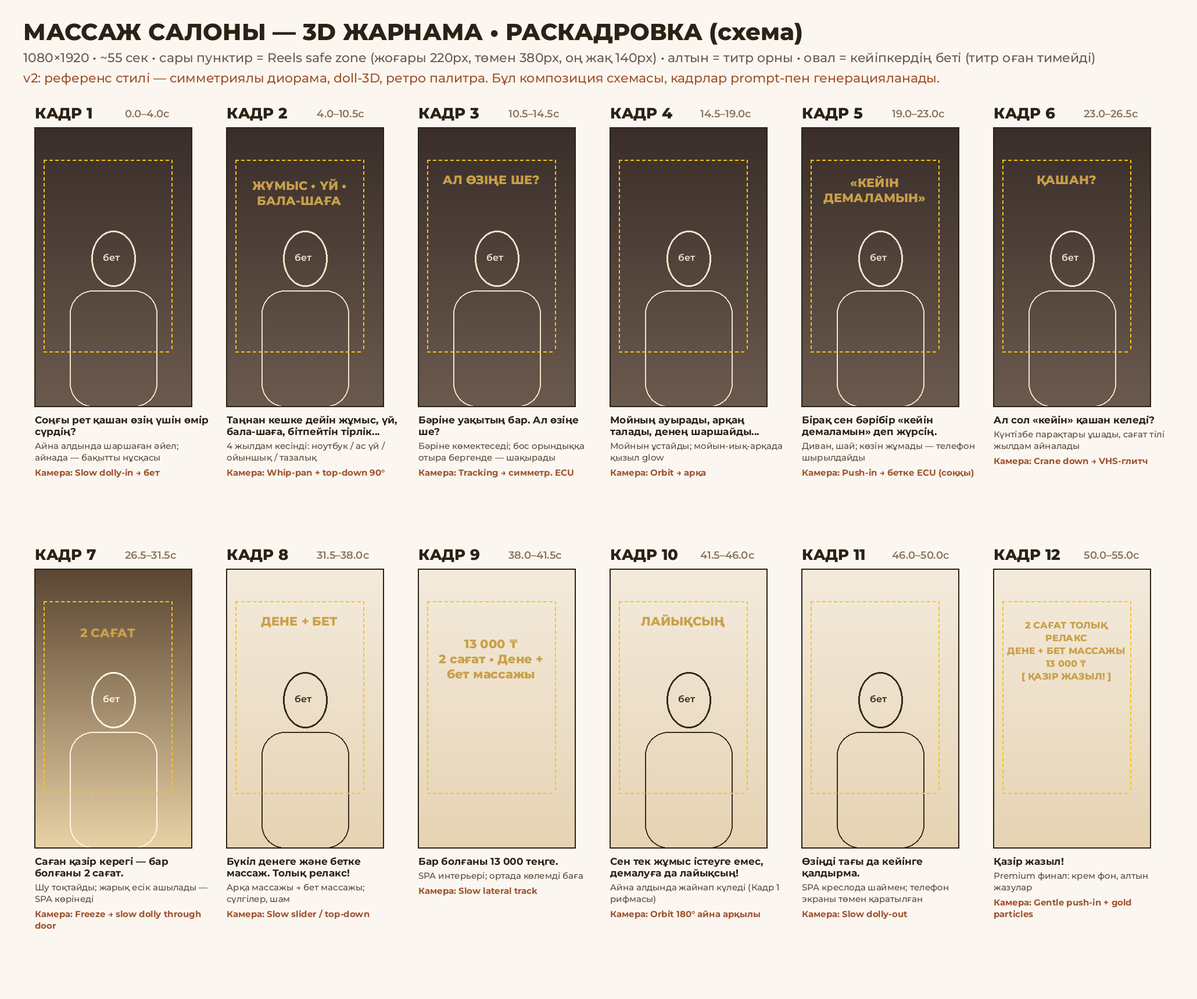
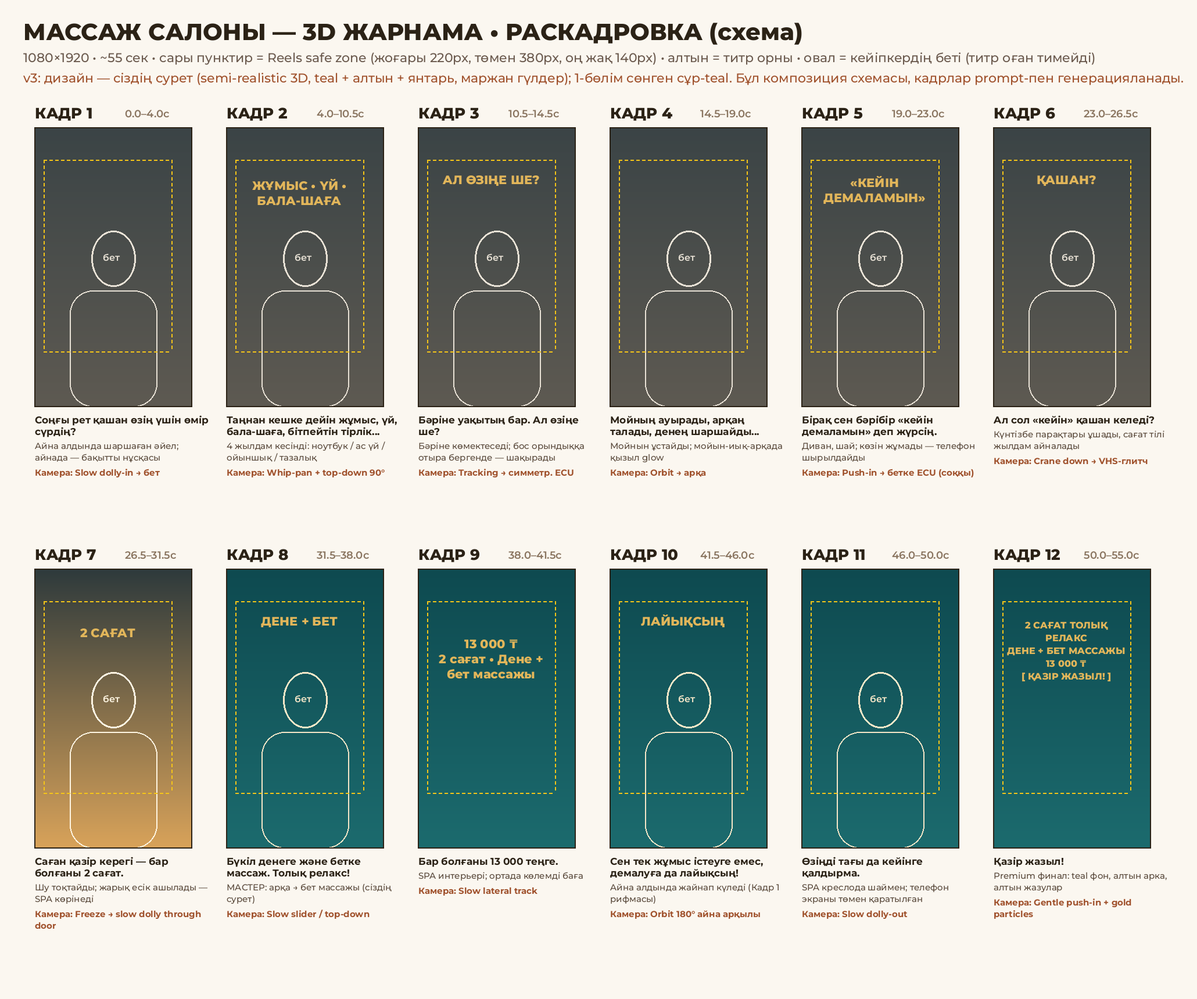
Массаж 3D v3: дизайн пайдаланушы суретіне ауыстырылды, массажист кейіпкері қосылды
Claude-Session: https://claude.ai/code/session_017A9pfsDQe6xzvqqRhjSeg5

diff --git a/Раскадровка/massage-3d/board.py b/Раскадровка/massage-3d/board.py
@@ -22,17 +22,17 @@ SHOTS = [
  ("19.0–23.0", "Бірақ сен бәрібір «кейін демаламын» деп жүрсің.", "Диван, шай; көзін жұмады — телефон шырылдайды", "Push-in → бетке ECU (соққы)", "«КЕЙІН ДЕМАЛАМЫН»", 0.17, "dark"),
  ("23.0–26.5", "Ал сол «кейін» қашан келеді?", "Күнтізбе парақтары ұшады, сағат тілі жылдам айналады", "Crane down → VHS-глитч", "ҚАШАН?", 0.16, "dark"),
  ("26.5–31.5", "Саған қазір керегі — бар болғаны 2 сағат.", "Шу тоқтайды; жарық есік ашылады — SPA көрінеді", "Freeze → slow dolly through door", "2 САҒАТ", 0.20, "turn"),
- ("31.5–38.0", "Бүкіл денеге және бетке массаж. Толық релакс!", "Арқа массажы → бет массажы; сүлгілер, шам", "Slow slider / top-down", "ДЕНЕ + БЕТ", 0.16, "light"),
+ ("31.5–38.0", "Бүкіл денеге және бетке массаж. Толық релакс!", "МАСТЕР: арқа → бет массажы (сіздің сурет)", "Slow slider / top-down", "ДЕНЕ + БЕТ", 0.16, "light"),
  ("38.0–41.5", "Бар болғаны 13 000 теңге.", "SPA интерьері; ортада көлемді баға", "Slow lateral track", "13 000 ₸\n2 сағат • Дене + бет массажы", 0.40, "light"),
  ("41.5–46.0", "Сен тек жұмыс істеуге емес, демалуға да лайықсың!", "Айна алдында жайнап күледі (Кадр 1 рифмасы)", "Orbit 180° айна арқылы", "ЛАЙЫҚСЫҢ", 0.16, "light"),
  ("46.0–50.0", "Өзіңді тағы да кейінге қалдырма.", "SPA креслода шаймен; телефон экраны төмен қаратылған", "Slow dolly-out", "—", None, "light"),
- ("50.0–55.0", "Қазір жазыл!", "Premium финал: крем фон, алтын жазулар", "Gentle push-in + gold particles", "2 САҒАТ ТОЛЫҚ РЕЛАКС\nДЕНЕ + БЕТ МАССАЖЫ\n13 000 ₸\n[ ҚАЗІР ЖАЗЫЛ! ]", 0.30, "light"),
+ ("50.0–55.0", "Қазір жазыл!", "Premium финал: teal фон, алтын арка, алтын жазулар", "Gentle push-in + gold particles", "2 САҒАТ ТОЛЫҚ РЕЛАКС\nДЕНЕ + БЕТ МАССАЖЫ\n13 000 ₸\n[ ҚАЗІР ЖАЗЫЛ! ]", 0.30, "light"),
 ]
 
-PAL = {"dark": ("#3A2E2A", "#6B5A4E", "#F2E3C9"),
-       "turn": ("#5A4632", "#E9D2A6", "#FFF6E3"),
-       "light": ("#F4EBDD", "#E6D3B3", "#3A2B1E")}
-GOLD = "#C9A04A"
+PAL = {"dark": ("#3B4446", "#5E5A52", "#E9E2D6"),
+       "turn": ("#2E3A3C", "#D9A35A", "#FFF6E3"),
+       "light": ("#0E4A50", "#1C6B6E", "#F6E7C8")}
+GOLD = "#E2B65A"
 
 FW, FH = 270, 480           # 9:16 кадр (1080×1920 / 4)
 CW, CH = 330, 760
@@ -45,7 +45,7 @@ d = ImageDraw.Draw(img)
 d.text((M, 30), "МАССАЖ САЛОНЫ — 3D ЖАРНАМА • РАСКАДРОВКА (схема)", font=font(MONT, 40, 800), fill="#2B2216")
 d.text((M, 85), "1080×1920 • ~55 сек • сары пунктир = Reels safe zone (жоғары 220px, төмен 380px, оң жақ 140px) • алтын = титр орны • овал = кейіпкердің беті (титр оған тимейді)",
        font=font(MONT, 22, 500), fill="#6B5A4E")
-d.text((M, 120), "v2: референс стилі — симметриялы диорама, doll-3D, ретро палитра. Бұл композиция схемасы, кадрлар prompt-пен генерацияланады.",
+d.text((M, 120), "v3: дизайн — сіздің сурет (semi-realistic 3D, teal + алтын + янтарь, маржан гүлдер); 1-бөлім сөнген сұр-teal. Бұл композиция схемасы, кадрлар prompt-пен генерацияланады.",
        font=font(MONT, 22, 500), fill="#A0522D")
 
 def wrap(text, f, w):

diff --git a/Раскадровка/massage-3d/раскадровка.md b/Раскадровка/massage-3d/раскадровка.md
@@ -1,56 +1,67 @@
 # Массаж салоны — 3D анимациялық жарнама (Reels 9:16)
 
-**Мәртебе:** раскадровка + prompt-тар дайын, референс талданды (v2). Видео әлі жасалған жоқ.
+**Мәртебе:** v3 — дизайн сіз жіберген суретке (`dizain-ref.png`) ауыстырылды, массажист кейіпкері қосылды. Видео әлі жасалған жоқ.
 
 ---
 
-## 0. Референс талдауы (69 сек, 720×1280)
+## 0. Стиль көздері
 
-**Не алмаймыз:** оқиғаны («Айта берсін»), кейіпкерлерді, киімдерді, жазуларды, логотипті.
-**Не аламыз — стилистика:**
+**A. Негізгі дизайн — `dizain-ref.png` (сіз жіберген сурет).** Бүкіл роликтің визуалы осыған сүйенеді:
 
-| Параметр | Референсте | Біздің роликте |
-|---|---|---|
-| Рендер | Stylized 3D «designer doll / claymation» эстетикасы: матовая, сәл пластилин тәрізді тері, ұзын жіңішке мойын, кішкентай сопақ бет, үлкен бас, ұзын аяқ, жіңішке қол. Ұсақ егжей-тегжей: тоқыма, барқыт, ою-өрнек | Дәл осы рендер стилі, бірақ өз кейіпкеріміз |
-| Әлем | **Диорама / қуыршақ үйі** сезімі: миниатюра декорация, бәрі симметриялы, tilt-shift тәрізді, Уэс Андерсон композициясы | 1-бөлім — үй/кеңсе диорамасы, 2-бөлім — SPA диорамасы |
-| Палитра | Қаныққан ретро: teal-көк, қыша-сары, қызыл-сарғыш, кобальт көк, жасыл барқыт; жылы vintage grade, film grain | 1-бөлім: **сөнген** нұсқасы (сұр-teal, тозған қыша, қоңыр) • 2-бөлім: крем/беж/алтын + жұмсақ шабдалы, бірақ сол ретро-grain |
-| Композиция | Фронталды, ортада, симметрия; кейіпкер кадрдың тік ортасында | Сол ереже — сонымен бет титрден төмен тұрады |
-| Камера | Негізінен статикалық жалпы план + баяу push-in; кенет **бетке экстремалды close-up** (симметриялы, deadpan); бір рет **top-down** план 90° бұрылған | Әр кадрда қозғалыс (сіздің талап), бірақ «жалпы план → бетке close-up» соққысы сақталады (Кадр 1, 3, 5) |
-| Мимика | Сатиралық, үлкейтілген: қас көтеру, көз айналдыру, ерін бұрту; ұсақ басты қимыл | Эмоция — шаршау, мұң, жеңілдеу, күлкі; анық әрі сәл үлкейтілген |
-| Монтаж ырғағы | ~7 сек блоктар (7.1 / 14.1 / 21.1 / 28 / 33.7 / 46 / 50.5 с): жалпы план → диалог → close-up соққы. Ауысулар: hard cut, **VHS-глитч + қара экран** (≈37 с), кадрды 90° айналдыру, соңында қара фонда хром логотип | 1-бөлім жылдамырақ (1.5–4 с), Кадр 6→7 — **VHS-глитч + 0.5 с қара** (шу тоқтайды), 2-бөлім баяу cross-dissolve |
-| Жазу | Ақ, қалың, қолжазба-маркер капс, ортадан сәл төмен, денеге түседі, жұмсақ көлеңке; жоғарғы оң бұрышта су белгі | Титр қысқа, **беттен жоғары**; негізгі сөздер — алтын serif, субтитр — ақ маркер-стиль (референстегідей сезім) |
-| Дыбыс | Музыка-драйв, –14 LUFS | Дауыс –14 LUFS, музыка –20 dB-ге дейін басылады |
+| Параметр | Шешім |
+|---|---|
+| Рендер | Premium semi-realistic stylized 3D (Pixar/Disney commercial деңгейі): табиғи пропорциялар, жұмсақ subsurface тері, нәзік сепкіл, мөлдір жылтыр бет, ұсақ детальдар (сүлгі түктері, алтын қақпақтар) |
+| SPA палитрасы | Терең **teal / изумруд** қабырғалар, **алтын** аркалар мен жиектер, **жылы янтарь** жарықталған ниша, **маржан-қызғылт** гүлдер (сакура/айва бұтақтары), **ақ** үлпілдек сүлгілер, алтын қақпақты янтарь флакондар, алтын фонарь |
+| Жарық | Жылы key light (фонарь/ниша), teal fill, бетте жұмсақ glow, background-та bokeh |
+| Камера | 85 мм сезімі, shallow DOF, алдыңғы планда фокустан тыс флакондар (тереңдік) |
+| 1-бөлім (Кадр 1–6) | Сол 3D стиль, бірақ teal **сұр-көкке**, алтын **тозған қоңырға** ауысады; жарық күңгірт, кешкі, desaturated. Түс палитрасы сақталады — тек «сөнген» |
+| Кадр 7 | Есіктен сол янтарь-алтын жарық — SPA палитрасы «қайта жанады» |
+
+**B. Референс видео — тек монтаж тәсілдері үшін:** симметриялы композиция, «жалпы план → бетке close-up соққы» (Кадр 1, 3, 5), top-down 90° план (Кадр 2d), Кадр 6→7 VHS-глитч + қара экран, ақ қалың маркер-субтитр. Оның doll/диорама рендері мен ретро палитрасы енді **қолданылмайды** — дизайн A бойынша.
 
 ---
 
-## 1. Character reference (кейіпкердің тұрақты келбеті)
+## 1. Character reference
 
-**Аты (ішкі):** АЙЫМ, 32 жас, қазақ әйел. Референс кейіпкерінен айырмасы: көздері **үлкен, жұмсақ** (cat-eye емес), сырғасы — кішкентай інжу (үлкен алтын сақина емес), мимикасы жылы.
+### 1.1 АЙЫМ — басты кейіпкер (клиент)
+Сіздің суреттегі клиентке негізделген: қазақ әйел, 30–35 жас.
 
-**Тұрақты белгілер (әр prompt-қа сөзбе-сөз қосылады — `[AIYM]` блогы):**
+**`[AIYM]` блогы (әр prompt-қа сөзбе-сөз):**
 ```
-[AIYM] a 32-year-old Kazakh woman, stylized 3D designer-doll character with a matte clay-like finish,
-elongated slender neck, small oval face, slightly oversized head, long slim limbs, long straight glossy jet-black hair falling below the shoulders with a soft middle part,
-large expressive almond-shaped dark-brown eyes with long lashes, soft high cheekbones, warm light-olive skin
-with subtle subsurface scattering, small refined nose, full natural rose lips, thin elegant eyebrows,
-small pearl stud earrings (always), soft natural makeup with thin brown liner, consistent face across all shots
+[AIYM] a 32-year-old Kazakh woman, premium semi-realistic stylized 3D animated character (Pixar-quality commercial),
+slim elegant figure, long straight glossy jet-black hair, large expressive almond-shaped dark-brown eyes with long lashes,
+softly arched dark eyebrows, round soft face with gentle high cheekbones, warm light-golden skin with subtle subsurface glow,
+small refined nose, full rosy-nude lips, small gold hoop earrings (always), consistent face across all shots
+```
+**Image reference:** `dizain-ref.png` ішіндегі клиенттің беті (crop) → барлық Айым кадрларына «character / face reference».
+
+**Киімдері:**
+- Үй/жұмыс (1–7): oversized soft grey knit cardigan over a white tee, beige trousers, hair in a messy low bun with loose strands.
+- SPA (8): white plush towel wrap, hair wrapped in a white terry towel band (суреттегідей).
+- Финал (10–11): soft white-cream robe with gold trim, hair down, glowing skin.
+
+### 1.2 МАСТЕР — массажист (сіздің суреттен, дәл сол келбет)
+**`[MASTER]` блогы:**
+```
+[MASTER] a Kazakh female massage therapist around 40, premium semi-realistic stylized 3D character, round soft face,
+warm light skin with light freckles, defined dark eyebrows, gentle almond eyes with thin black winged liner, calm kind focused expression,
+wearing a black-and-white monogram-pattern bandana headscarf tied at the back over a fitted white underscarf covering the neck,
+white zip-up medical tunic with a gold zipper pull, grey cuffs and thin grey piping lines, neat professional hands
+```
+**Image reference:** `dizain-ref.png` ішіндегі массажистің беті мен формасы (crop) — 8a, 8b, (қаласаңыз) 12-кадрда.
+Ескерту: егер массажистің **нақты фотосы** бөлек болса — жіберіңіз, бетті соған қарай нақтылаймын.
+
+### 1.3 Character sheet (бірінші генерация)
+```
+Character turnaround sheet, [AIYM], front, 3/4, profile, back + 4 expressions (exhausted, sad, peaceful eyes closed, radiant smile),
+neutral warm background, premium semi-realistic stylized 3D, even soft light --ar 16:9
+```
+```
+Character turnaround sheet, [MASTER], front, 3/4, profile, back + 3 expressions (focused, gentle smile, welcoming),
+neutral warm background, premium semi-realistic stylized 3D, even soft light --ar 16:9
 ```
 
-**Character sheet генерациясы (бірінші болып жасалады):**
-```
-Character turnaround sheet, [AIYM], front view, 3/4 view, side profile, back view, plus 4 facial expressions
-(exhausted, sad, peaceful with closed eyes, radiant smile), neutral beige studio background, even soft lighting,
-premium stylized 3D animation, high-end commercial render, ultra detailed, clean white background labels
---ar 16:9
-```
-Осыдан ең жақсы алдыңғы (front) және 3/4 нұсқасын таңдап, **барлық кадрларда image reference / character reference** ретінде береміз (Midjourney `--cref` + `--cw 100`, Kling/Hailuo «Subject reference», Flux Kontext т.б.).
-
-**Киім нұсқалары:**
-- **Үй/жұмыс (Кадр 1–7):** oversized soft grey knit cardigan over a white tee, beige linen trousers, hair in a slightly messy low bun with loose strands.
-- **SPA (Кадр 8):** white fluffy towel wrap, hair down spread on the table.
-- **Финал (Кадр 10–11):** cream silk robe with gold piping, hair down, glowing.
-
-**Негативтер (барлық суретке):** `no text, no watermark, no extra fingers, no distorted face, no photorealism, no anime, no cartoon flatness`
+**Негативтер:** `no text, no watermark, no extra fingers, no distorted hands, no doll proportions, no anime, no photorealistic photo`
 
 ---
 
@@ -79,10 +90,11 @@ Kazakh TTS-пен (Piper, әйел дауысы) уақыт өлшенді: **т
 
 ## 3. Кадрлар: image prompt + image-to-video prompt
 
-Әр image prompt-тың соңына қосылады (референс стилі):
-`stylized 3D designer-doll animation, miniature diorama set, symmetrical centered Wes Anderson composition, frontal camera, tactile clay and fabric textures, retro saturated palette, subtle film grain, warm vintage color grade, soft cinematic lighting, shallow depth of field, vertical 9:16 --ar 9:16`
-1-бөлімге қосу: `muted desaturated dusty teal and faded mustard tones, dim evening light`. 2-бөлімге: `cream, beige, soft peach and gold palette, airy high-key light`.
-Композиция ережесі: **бет кадрдың ортаңғы бөлігінде (жоғарыдан 40–55%)**, жоғарғы 25% титрге бос қалады.
+Әр image prompt-тың соңына қосылады (дизайн A):
+`premium semi-realistic stylized 3D animation, Pixar-quality commercial render, soft subsurface skin, cinematic 85mm, shallow depth of field, warm amber key light with teal ambient, detailed textures, vertical 9:16 --ar 9:16`
+1-бөлімге: `muted desaturated grey-teal and faded bronze tones, dim evening light, slightly tired atmosphere`.
+SPA бөліміне: `luxurious SPA interior with deep teal walls, gold arches and trims, glowing amber niche, coral-pink blossom branches in a glass vase, white plush rolled towels, amber bottles with gold pumps, golden lantern, soft bokeh`.
+Композиция: бет кадрдың ортаңғы бөлігінде (жоғарыдан 40–60%), жоғарғы 25% титрге бос.
 
 ### КАДР 1 — Айна (0.0–4.0)
 - **Image:** `[AIYM] in a grey knit cardigan with messy low bun, standing in front of an ornate bathroom mirror at night, tired eyes, slight dark circles, shoulders dropped; in the mirror reflection the same woman appears radiant, smiling, hair down, glowing skin, wearing elegant cream dress — the reflection is warmer and brighter than reality; dim warm tungsten light, muted desaturated browns, face in the center of the frame, empty space above the head`
@@ -115,39 +127,39 @@ Kazakh TTS-пен (Piper, әйел дауысы) уақыт өлшенді: **т
 - **I2V:** `Camera cranes down from above toward her while calendar pages swirl rapidly and clock hands spin fast; she remains completely still. Time-lapse feeling, motion blur on pages only.`
 
 ### КАДР 7 — 2 сағат / есік (26.5–31.5)
-- **Image:** `[AIYM] in a dark quiet hallway, everything frozen and silent, a tall door in front of her opens and bright warm golden light pours out; through the doorway a luxurious cream and gold massage spa is visible with candles and orchids; volumetric god rays and floating golden dust; her face lit by the light, wonder in her eyes`
+- **Image:** `[AIYM] in a dark quiet hallway, everything frozen and silent, a tall door in front of her opens and bright warm golden light pours out; through the doorway a luxurious teal-and-gold massage spa is visible with a glowing amber niche, coral blossoms and white towels; volumetric god rays and floating golden dust; her face lit by the light, wonder in her eyes`
 - **I2V:** `First second: everything is still and silent (floating pages freeze mid-air and fade). Then the door slowly opens, golden light spills over her face, she breathes in with soft relief. Camera slowly dollies forward past her shoulder toward the light.`
 - Титр «2 САҒАТ» — монтажда қосылады (генератор жазуды бұзады).
 
 ### КАДР 8 — Массаж (31.5–38.0) — 2 кесінді
-- **8a Image:** `Luxurious SPA room in cream, beige and gold tones, [AIYM] lying face-down on a massage table, white towel over her lower back, hair down over one shoulder; a professional female massage therapist in a beige uniform gently massaging her upper back with oil; candles, orchids, rolled towels, soft diffused light, serene`
-  **I2V:** `Very slow lateral slider move; therapist's hands glide smoothly along her shoulders; she exhales, face peaceful with closed eyes. Calm, slow, 50% speed feeling.`
-- **8b Image:** `Top-down view of [AIYM] lying face-up, hair in a white towel band, eyes closed, serene; therapist's hands performing a gentle facial massage on her cheeks; soft golden light, rose petals in a bowl`
-  **I2V:** `Slow top-down push-in; gentle circular hand movements on her cheeks; a slight blissful smile appears.`
+- **8a Image:** `[MASTER] standing beside a massage table giving a slow back massage with warm oil to [AIYM] lying face-down, white towel over her lower back, hair wrapped in a white towel band, face turned to camera with eyes closed and peaceful; [SPA style]`
+  **I2V:** `Very slow lateral slider move; the therapist's hands glide smoothly along her shoulders; she exhales deeply, a soft smile appears. Calm, 0.8× slow motion.`
+- **8b Image (сіздің суреттің композициясы):** `[MASTER] standing behind the head of the massage table, gently performing a facial and neck massage with both hands on the jaw of [AIYM] who lies face-up, hair in a white terry towel band, eyes closed, blissful smile, white towel over her chest; foreground out-of-focus amber bottles with gold pumps; [SPA style]`
+  **I2V:** `Slow push-in from medium to close; gentle circular hand movements along her jawline and cheeks; the therapist looks down with a calm kind expression; lantern light flickers softly.`
+  > `dizain-ref.png` суретін 8b-ге **тікелей бастапқы кадр** ретінде беруге болады (image-to-video) — ең сенімді жол.
 
 ### КАДР 9 — Баға (38.0–41.5)
-- **Image:** `Empty elegant SPA interior, cream walls, gold accents, a massage table with folded towels, candles, orchids, soft morning light, generous empty space in the center of the frame for a title, no people`
-- **I2V:** `Slow lateral tracking shot across the interior, candle flames flicker, gentle light shift. Calm.`
-- Титр монтажда: ортада **«13 000 ₸»** (көлемді алтын, 3D extrude), астында **«2 сағат • Дене + бет массажы»**.
+- **Image:** `Empty luxurious SPA room with deep teal walls, gold arches, glowing amber niche with rolled white towels and amber bottles, coral blossom branches, massage table with white towels, generous empty space in the upper-middle of the frame for a title, no people`
+- **I2V:** `Slow lateral tracking shot; lantern light and blossom petals drift gently. Calm.`
+- Титр: ортада **«13 000 ₸»** (көлемді алтын 3D-әріп), астында **«2 сағат • Дене + бет массажы»** (крем-ақ).
 
 ### КАДР 10 — Айна, жайнаған (41.5–46.0)
-- **Image:** `[AIYM] in a cream silk robe, hair down and glossy, glowing refreshed skin, standing in front of an elegant gold-framed mirror in a bright SPA dressing room, smiling at her reflection with confidence; bright warm light — visual rhyme of the first shot`
-- **I2V:** `Camera orbits 180° around her via the mirror, she tucks hair behind her ear and smiles warmly at herself. Soft, joyful.`
+- **Image:** `[AIYM] in a white-cream robe with gold trim, hair down and glossy, glowing refreshed skin, in front of a gold-framed arched mirror in the teal SPA, smiling at her reflection; warm amber light — visual rhyme of shot 1`
+- **I2V:** `Camera orbits 180° around her via the mirror; she tucks hair behind her ear and smiles warmly at herself.`
 
 ### КАДР 11 — Шай, тыныштық (46.0–50.0)
-- **Image:** `[AIYM] in cream robe sitting in a luxurious beige SPA lounge chair, holding a cup of herbal tea with both hands, happy calm face, her phone lying face-down on the side table, soft daylight, plants`
-- **I2V:** `Slow dolly-out revealing the beautiful lounge; she sips tea and gazes peacefully out of the window; the phone stays face-down. Very calm.`
+- **Image:** `[AIYM] in white-cream robe relaxing in a plush cream lounge chair in the teal-and-gold SPA lounge, holding a cup of herbal tea with both hands, happy calm face, her phone lying face-down on a small gold side table, coral blossoms behind`
+- **I2V:** `Slow dolly-out revealing the lounge; she sips tea and gazes peacefully; the phone stays face-down.`
 
 ### КАДР 12 — Финал (50.0–55.0)
-- **Image:** `Premium cream and beige background with soft bokeh of SPA candles and orchids, elegant gold accents, floating golden particles, empty center for typography`
-- **I2V:** `Gentle slow push-in, golden particles drift upward, candle bokeh shimmers.`
-- Титр монтажда (кезекпен шығады, 0.3 с аралықпен):
+- **Image:** `Deep teal background with soft bokeh of the SPA (amber niche glow, coral blossoms, golden lantern), elegant gold arch frame in the center, floating golden particles, empty center for typography`
+- **I2V:** `Gentle slow push-in, golden particles drift upward, bokeh shimmers.`
+- Титр (кезекпен, 0.3 с аралықпен), алтын + крем-ақ:
   1. **2 САҒАТ ТОЛЫҚ РЕЛАКС**
   2. **ДЕНЕ + БЕТ МАССАЖЫ**
   3. **13 000 ₸** (ең үлкені)
-  4. батырма **[ ҚАЗІР ЖАЗЫЛ! ]** — жұмсақ пульс
-
----
+  4. батырма **[ ҚАЗІР ЖАЗЫЛ! ]** — алтын, жұмсақ пульс
+- Ескерту: бастапқы брифте финал фоны «крем» болатын; жаңа дизайнға сай **teal + алтын** ұсынамын (крем түсі — әріптер мен батырмада). Крем фон керек болса — айтыңыз.
 
 ## 4. Монтаж жоспары
 
@@ -159,7 +171,7 @@ Kazakh TTS-пен (Piper, әйел дауысы) уақыт өлшенді: **т
   - 6→7: **VHS-глитч + 0.5 с қара экран** (референстегідей), содан **толық тыныштық** (музыка 0.8 с кесіледі) → есіктің жарығына ақ-алтын flash;
   - 8–12: 12–18 кадрлық мягкий cross-dissolve, light leak.
 - **Жылдамдық:** 1-бөлім — кадр 1.5–2 сек, 2-бөлім — 3–5 сек, клиптер 0.8× slow-motion.
-- **Титрлар:** қысқа, капспен, алтын serif; пайда болу — 8 кадр fade + 10 px жоғары жылжу; соңғы карта — бір-бірлеп.
+- **Титрлар:** қысқа, капспен, алтын serif (teal фонда — крем-ақ көмекші жол); пайда болу — 8 кадр fade + 10 px жоғары жылжу; соңғы карта — бір-бірлеп.
 - **Субтитр:** керек болса — төменгі safe-zone шекарасынан жоғары, кішкене, ақ + жұмсақ көлеңке (дыбыссыз көретіндер үшін ұсынамын).
 - **Дыбыс:**
   - Дауыс: қазақша әйел дауысы, жылы, эмоциялы, –14 LUFS.
